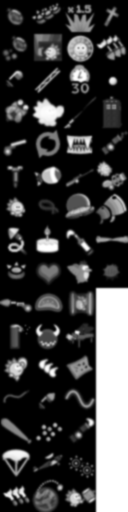
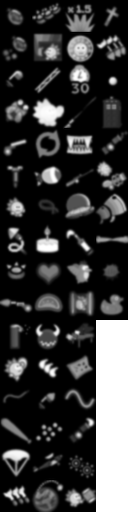
Add ammotype amDuck for rubber duck
Still needs some tweaking (eject position, ammo menu slot)

Changed region(s): [[0.7188, 0.5625, 1.0, 1.0]]

diff --git a/QTfrontend/weapons.h b/QTfrontend/weapons.h
@@ -16,10 +16,10 @@
  * Foundation, Inc., 51 Franklin St, Fifth Floor, Boston, MA  02110-1301  USA
  */
 
-#define AMMOLINE_EMPTY_QT       "000000900000000000000000000000000000000000000000000000000"
-#define AMMOLINE_EMPTY_PROB     "000000000000000000000000000000000000000000000000000000000"
-#define AMMOLINE_EMPTY_DELAY    "000000000000000000000000000000000000000000000000000000000"
-#define AMMOLINE_EMPTY_CRATE    "131111031211111112311411111111111111121111111111111111111"
+#define AMMOLINE_EMPTY_QT       "0000009000000000000000000000000000000000000000000000000000"
+#define AMMOLINE_EMPTY_PROB     "0000000000000000000000000000000000000000000000000000000000"
+#define AMMOLINE_EMPTY_DELAY    "0000000000000000000000000000000000000000000000000000000000"
+#define AMMOLINE_EMPTY_CRATE    "1311110312111111123114111111111111111211111111111111111111"
 
 /*
  AmmoType lookup table (use monospace font / cursor movements)
@@ -81,63 +81,60 @@
  amKnife-------------------------------------------------------------------------------|
  amRubber-------------------------------------------------------------------------------|
  amAirMine-------------------------------------------------------------------------------|
+ amDuck-----------------------------------------------------------------------------------|
 */
-#define AMMOLINE_DEFAULT_QT     "939192942219912103223511100120000000021110010101111100010"
-#define AMMOLINE_DEFAULT_PROB   "040504054160065554655446477657666666615551010111541111111"
-#define AMMOLINE_DEFAULT_DELAY  "000000000000020550000004000700400000000022000000060002000"
-#define AMMOLINE_DEFAULT_CRATE  "131111031211111112311411111111111111121111111111111111111"
+#define AMMOLINE_DEFAULT_QT     "9391929422199121032235111001200000000211100101011111000102"
+#define AMMOLINE_DEFAULT_PROB   "0405040541600655546554464776576666666155510101115411111114"
+#define AMMOLINE_DEFAULT_DELAY  "0000000000000205500000040007004000000000220000000600020000"
+#define AMMOLINE_DEFAULT_CRATE  "1311110312111111123114111111111111111211111111111111111111"
 
-#define AMMOLINE_CRAZY_QT       "999999999999999999299999999999999929999999999999999299919"
-#define AMMOLINE_CRAZY_PROB     "111111011111111111111111111111111111111111111111111111111"
-#define AMMOLINE_CRAZY_DELAY    "000000000000000000000000000000000000000000000000000000000"
-#define AMMOLINE_CRAZY_CRATE    "131111031211111112311411111111111111121111111111111111111"
+#define AMMOLINE_CRAZY_QT       "9999999999999999992999999999999999299999999999999992999199"
+#define AMMOLINE_CRAZY_PROB     "1111110111111111111111111111111111111111111111111111111111"
+#define AMMOLINE_CRAZY_DELAY    "0000000000000000000000000000000000000000000000000000000000"
+#define AMMOLINE_CRAZY_CRATE    "1311110312111111123114111111111111111211111111111111111111"
 
-#define AMMOLINE_PROMODE_QT     "909000900000000000000900000000000000000000000000000000000"
-#define AMMOLINE_PROMODE_PROB   "000000000000000000000000000000000000000000000000000000000"
-#define AMMOLINE_PROMODE_DELAY  "000000000000020550000004000700400000000020000000000002000"
-#define AMMOLINE_PROMODE_CRATE  "111111011111111111111111111111111111111111111111111111111"
+#define AMMOLINE_PROMODE_QT     "9090009000000000000009000000000000000000000000000000000000"
+#define AMMOLINE_PROMODE_PROB   "0000000000000000000000000000000000000000000000000000000000"
+#define AMMOLINE_PROMODE_DELAY  "0000000000000205500000040007004000000000200000000000020000"
+#define AMMOLINE_PROMODE_CRATE  "1111110111111111111111111111111111111111111111111111111111"
 
-#define AMMOLINE_SHOPPA_QT      "000000990000000000000000000000000000000000000000000000000"
-#define AMMOLINE_SHOPPA_PROB    "444441004424440221011212122242200000000200040001001100101"
-#define AMMOLINE_SHOPPA_DELAY   "000000000000000000000000000000000000000000000000000000000"
-#define AMMOLINE_SHOPPA_CRATE   "111111011111111111111111111111111111111111111111111111111"
+#define AMMOLINE_SHOPPA_QT      "0000009900000000000000000000000000000000000000000000000000"
+#define AMMOLINE_SHOPPA_PROB    "4444410044244402210112121222422000000002000400010011001011"
+#define AMMOLINE_SHOPPA_DELAY   "0000000000000000000000000000000000000000000000000000000000"
+#define AMMOLINE_SHOPPA_CRATE   "1111110111111111111111111111111111111111111111111111111111"
 
-#define AMMOLINE_CLEAN_QT       "101000900001000001100000000000000000000000000000100000000"
-#define AMMOLINE_CLEAN_PROB     "040504054160065554655446477657666666615551010111541112111"
-#define AMMOLINE_CLEAN_DELAY    "000000000000000000000000000000000000000000000000000002000"
-#define AMMOLINE_CLEAN_CRATE    "131111031211111112311411111111111111121111111111111111111"
+#define AMMOLINE_CLEAN_QT       "1010009000010000011000000000000000000000000000001000000000"
+#define AMMOLINE_CLEAN_PROB     "0405040541600655546554464776576666666155510101115411121114"
+#define AMMOLINE_CLEAN_DELAY    "0000000000000000000000000000000000000000000000000000020000"
+#define AMMOLINE_CLEAN_CRATE    "1311110312111111123114111111111111111211111111111111111111"
 
-#define AMMOLINE_MINES_QT       "000000990009000000030000000000000000000000000000000000000"
-#define AMMOLINE_MINES_PROB     "000000000000000000000000000000000000000000000000000000000"
-#define AMMOLINE_MINES_DELAY    "000000000000020550000004000700400000000020000000060002000"
-#define AMMOLINE_MINES_CRATE    "111111011111111111111111111111111111111111111111111111111"
+#define AMMOLINE_MINES_QT       "0000009900090000000300000000000000000000000000000000000000"
+#define AMMOLINE_MINES_PROB     "0000000000000000000000000000000000000000000000000000000000"
+#define AMMOLINE_MINES_DELAY    "0000000000000205500000040007004000000000200000000600020000"
+#define AMMOLINE_MINES_CRATE    "1111110111111111111111111111111111111111111111111111111111"
 
-#define AMMOLINE_PORTALS_QT     "900000900200000000210000000000000011000009000000000000000"
-#define AMMOLINE_PORTALS_PROB   "040504054160065554655446477657666666615551010111541112111"
-#define AMMOLINE_PORTALS_DELAY  "000000000000020550000004000700400000000020000000060002000"
-#define AMMOLINE_PORTALS_CRATE  "131111031211111112311411111111111111121111111111111111111"
+#define AMMOLINE_PORTALS_QT     "9000009002000000002100000000000000110000090000000000000000"
+#define AMMOLINE_PORTALS_PROB   "0405040541600655546554464776576666666155510101115411121112"
+#define AMMOLINE_PORTALS_DELAY  "0000000000000205500000040007004000000000200000000600020000"
+#define AMMOLINE_PORTALS_CRATE  "1311110312111111123114111111111111111211111111111111111111"
 
-#define AMMOLINE_ONEEVERY_QT    "111111911111111111111111111111111111111111111111111111111"
-#define AMMOLINE_ONEEVERY_PROB  "111111011111111111111111111111111111111111111111111111111"
-#define AMMOLINE_ONEEVERY_DELAY "000000000000000000000000000000000000000000000000000000000"
-#define AMMOLINE_ONEEVERY_CRATE "111111011111111111111111111111111111111111111111111111111"
+#define AMMOLINE_ONEEVERY_QT    "1111119111111111111111111111111111111111111111111111111111"
+#define AMMOLINE_ONEEVERY_PROB  "1111110111111111111111111111111111111111111111111111111111"
+#define AMMOLINE_ONEEVERY_DELAY "0000000000000000000000000000000000000000000000000000000000"
+#define AMMOLINE_ONEEVERY_CRATE "1111110111111111111111111111111111111111111111111111111111"
 
-#define AMMOLINE_HIGHLANDER_QT    "111111911111111111110191111111111001011111011110110011010"
-#define AMMOLINE_HIGHLANDER_PROB  "000000000000000000000000000000000000000000000000000000000"
-#define AMMOLINE_HIGHLANDER_DELAY "000000000000000000000000000000000000000000000000000000000"
-#define AMMOLINE_HIGHLANDER_CRATE "000000000000000000000000000000000000000000000000000000000"
+#define AMMOLINE_HIGHLANDER_QT    "1111119111111111111101911111111110010111110111101100110101"
+#define AMMOLINE_HIGHLANDER_PROB  "0000000000000000000000000000000000000000000000000000000000"
+#define AMMOLINE_HIGHLANDER_DELAY "0000000000000000000000000000000000000000000000000000000000"
+#define AMMOLINE_HIGHLANDER_CRATE "0000000000000000000000000000000000000000000000000000000000"
 
-#define AMMOLINE_CONSTRUCTION_QT    "110001900000001001000000000000000000000000000000000000000"
-#define AMMOLINE_CONSTRUCTION_PROB  "111111011111111111111111111111111111111111111111111111110"
-#define AMMOLINE_CONSTRUCTION_DELAY "000000000000000000000000000000000000000000000000000000000"
-#define AMMOLINE_CONSTRUCTION_CRATE "111111011111111111111111111111111111111111111111111111111"
+#define AMMOLINE_CONSTRUCTION_QT    "1100019000000010010000000000000000000000000000000000000000"
+#define AMMOLINE_CONSTRUCTION_PROB  "1111110111111111111111111111111111111111111111111111111100"
+#define AMMOLINE_CONSTRUCTION_DELAY "0000000000000000000000000000000000000000000000000000000000"
+#define AMMOLINE_CONSTRUCTION_CRATE "1111110111111111111111111111111111111111111111111111111111"
 
-#define AMMOLINE_SHOPPAPRO_QT      "000000990000000000000000000000000000000000000000000000000"
-#define AMMOLINE_SHOPPAPRO_PROB    "444440004404440000000000000040000000000000000000000000000"
-#define AMMOLINE_SHOPPAPRO_DELAY   "000000000000000000000000000000000000000000000000000000000"
-#define AMMOLINE_SHOPPAPRO_CRATE   "111111011111111111111111111111111111111111111111111112111"
-
-
-//When adding new weapons also insert one element in cDefaultAmmos list (hwconsts.cpp.in)
-
+#define AMMOLINE_SHOPPAPRO_QT      "0000009900000000000000000000000000000000000000000000000000"
+#define AMMOLINE_SHOPPAPRO_PROB    "4444400044044400000000000000400000000000000000000000000000"
+#define AMMOLINE_SHOPPAPRO_DELAY   "0000000000000000000000000000000000000000000000000000000000"
+#define AMMOLINE_SHOPPAPRO_CRATE   "1111110111111111111111111111111111111111111111111111121111"
 
